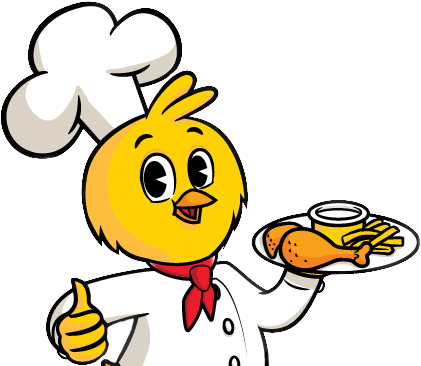
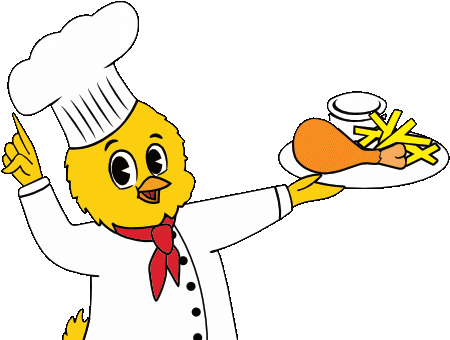
Updating some images

diff --git a/index.html b/index.html
@@ -300,7 +300,11 @@
                 </div>
             </div>
             <div class="header-section-container header-right-container">
-                <img class="header-img" src="./assets/img/header_img.png" alt="Combo Familiar">
+                <picture>
+                    <source srcset="./assets/img/uploads/combo-2-512x512.webp" type="image/webp">
+                    <img class="header-img" src="./assets/img/uploads/combo-2-512x512.png" alt="Combo Familiar 1">
+                </picture>
+                <!-- <img class="header-img" src="./assets/img/header_img.png" alt="Combo Familiar 1"> -->
             </div>
             
         </header>
@@ -349,7 +353,11 @@
                 <span>Haz tu pedido y déjanos lo demás a nosotros.</span>
                 <a href="/eventos/" class="button_cta type_yellow">PROGRAMAR PEDIDO</a>
                 <div class="mascot-container">
-                    <img src="./assets/img/mascot.png" alt="Pinulito">
+                    <picture>
+                        <source srcset="./assets/img/mascot.webp" type="image/webp">
+                        <img src="./assets/img/mascot.png" alt="Pinulito" loading="lazy">
+                    </picture>
+                    <!-- <img src="./assets/img/mascot.png" alt="Pinulito"> -->
                 </div>
             </div>
         </div>
